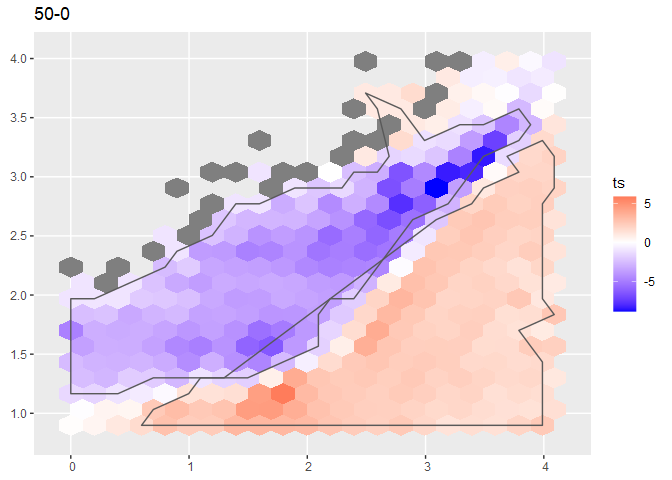
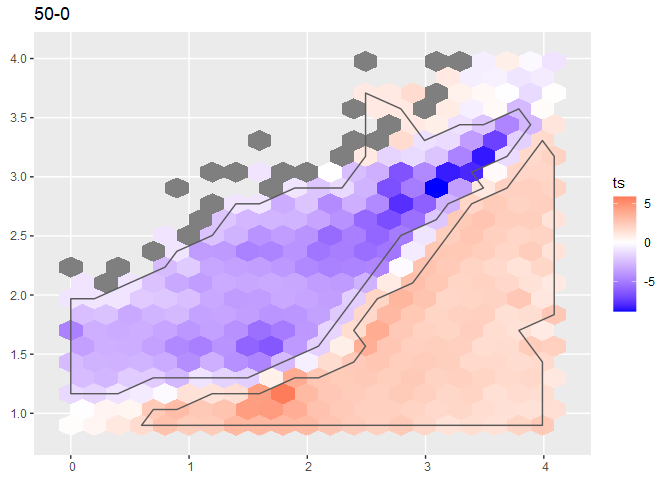
added weightMatrix.R and fixed issues

diff --git a/README.md b/README.md
@@ -189,7 +189,7 @@ metadata group. Check the indices with *head(ts)*.
     #> [5,] 0.8756360  1.2735054
     #> [6,] 1.0290481  1.7124040
 
-Plot the differences between two levels (index 2). Use *drop = F* to
+Plot the differences between two levels (index 5). Use *drop = F* to
 show plot title.
 
     plot_tscores(hexT, ts[,5, drop = F], color = NA)
@@ -200,17 +200,13 @@ Automatically create polygon gates based on this index.
 
     gates <- detectGates(hexT, ts[,5], conc = 2)
 
-Turn into sf object and plot
+Turn into simple features object and plot
 
-    library(sp)
+    library(sf)
+    #> Linking to GEOS 3.8.0, GDAL 3.0.4, PROJ 6.3.1
     library(ggplot2)
 
-    p <- lapply(gates, Polygon)
-
-    ps = Polygons(p,1)
-    sps = SpatialPolygons(list(ps))
-    psf <- as(sps, "sf")
-
+    psf <- st_polygon(gates)
 
     plot_tscores(hexT, ts[,5, drop = F], color = NA) + 
       geom_sf(data = psf, fill = NA)
@@ -283,9 +279,9 @@ actual dosage is not taken into account.
 Part 4: Customizing the plots
 -----------------------------
 
-The plot and plot\_tscores functions return ggplot objects and are
+The *plot* and *plot\_tscores* functions return ggplot objects and are
 therefore highly customizable. They use geom\_sf internally to display
-the hexagons. Additional arguments passed to geom\_sf can be added in
+the hexagons. Additional arguments passed to geom\_sf can be added to
 the function call.
 
 Plot the empty grid filled with random values
